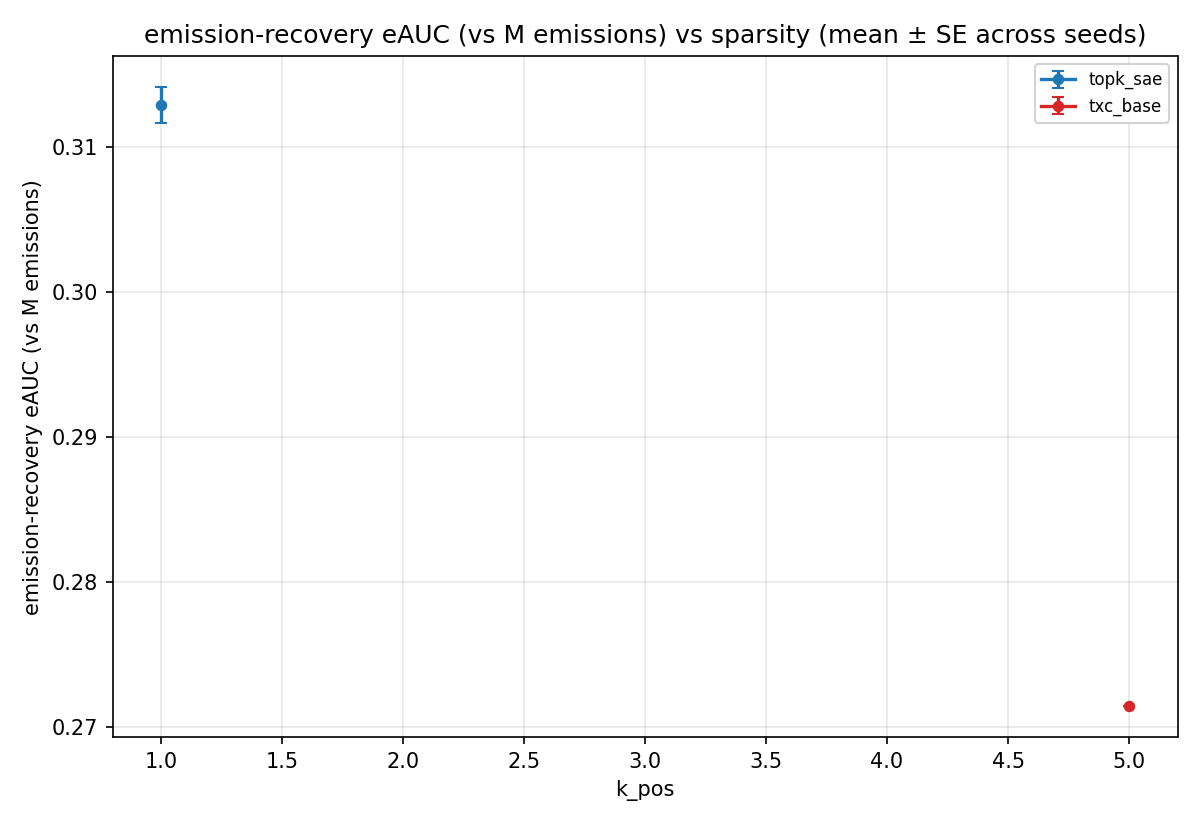
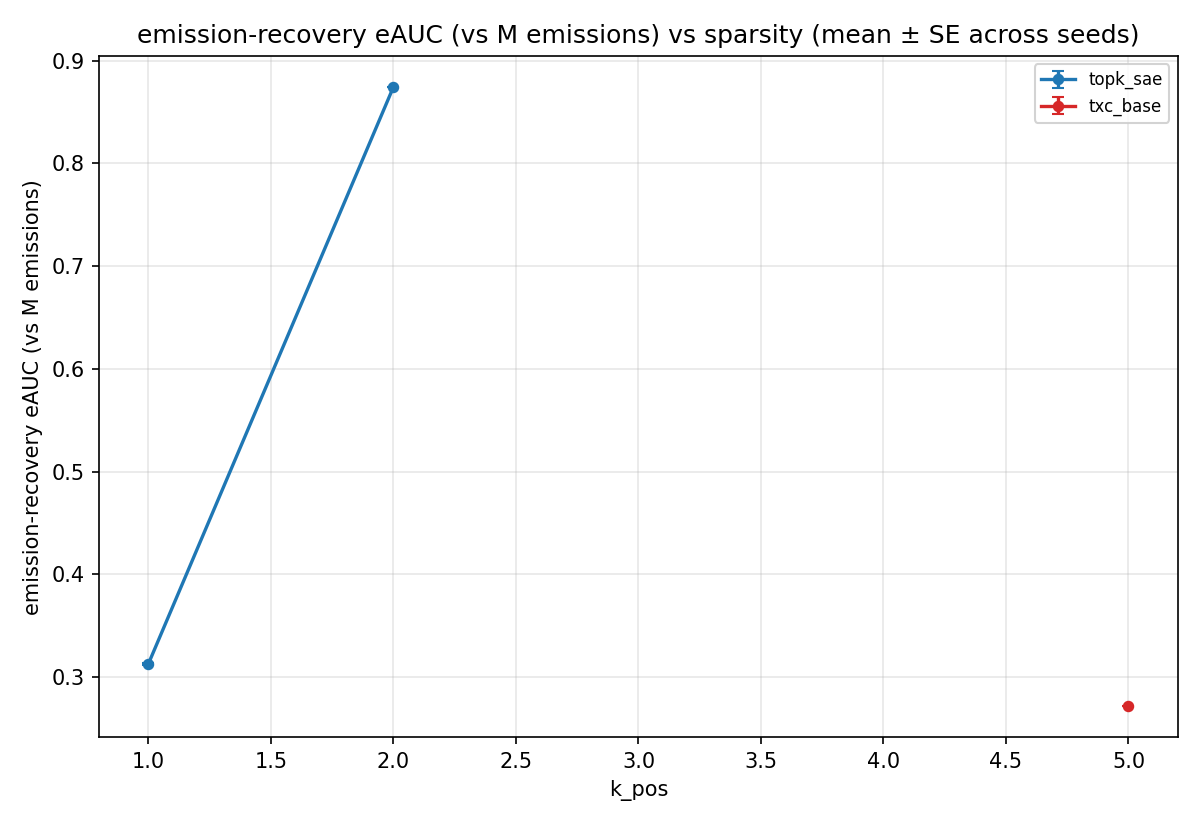
c1+c2 paper auto: refresh synthetic bundles (c1=, c2= leaderboard rows)
Auto-generated by purified/scripts/synthetic_paper_renderer.py.
Inputs: results/leaderboard.jsonl filtered to component in (c1,c2)
with eval_cfg._full_suite=true (the c{1,2}_synthetic_*_full driver flag).

diff --git a/purified/docs/components/c2_paper_results.md b/purified/docs/components/c2_paper_results.md
@@ -1,6 +1,6 @@
 # C2 Synthetic Coupled — paper-ready results (auto-generated)
 
-_Last refreshed: 2026-05-06T04:10:05+00:00_
+_Last refreshed: 2026-05-06T04:25:08+00:00_
 
 ## Setup
 
@@ -10,13 +10,13 @@ _Last refreshed: 2026-05-06T04:10:05+00:00_
 - Companion: eAUC — recovery of the M=20 emission directions.
 - Driver: `experiments/c2_synthetic_coupled_full/run.py` (isolated `act_cache_key` via `temp_bench.data.toy_full.api:coupled_hmm`).
 
-Currently 4 cells across 2 (arch, T) configurations; seeds-per-cell range = [1, 3].
+Currently 5 cells across 2 (arch, T) configurations; seeds-per-cell range = [1].
 
 ## gAUC headline (peak gAUC over k_pos)
 
 | arch | T | k\* | gAUC (mean ± SE) | n seeds |
 |------|---|----|---------------------------|---------|
-| `topk_sae` | — | 1 | 0.446 ± 0.017 | 3 |
+| `topk_sae` | — | 2 | 0.990 ± 0.000 | 1 |
 | `txc_base` | — | 5 | 0.320 ± 0.000 | 1 |
 
 ![c2_gauc_vs_k](c2_paper_assets/c2_gauc_vs_k.png)
@@ -25,21 +25,21 @@ Currently 4 cells across 2 (arch, T) configurations; seeds-per-cell range = [1, 
 
 | arch | T | k\* | eAUC (mean ± SE) | n seeds |
 |------|---|----|---------------------------|---------|
-| `topk_sae` | — | 1 | 0.313 ± 0.001 | 3 |
+| `topk_sae` | — | 2 | 0.874 ± 0.000 | 1 |
 | `txc_base` | — | 5 | 0.271 ± 0.000 | 1 |
 
 ![c2_eauc_vs_k](c2_paper_assets/c2_eauc_vs_k.png)
 
 ## Per-cell mean — gAUC
 
-| arch (T) | k=1 | k=5 |
-|---|---|---|
-| `topk_sae` | 0.446 | — |
-| `txc_base` | — | 0.320 |
+| arch (T) | k=1 | k=2 | k=5 |
+|---|---|---|---|
+| `topk_sae` | 0.446 | 0.990 | — |
+| `txc_base` | — | — | 0.320 |
 
 ## Per-cell mean — eAUC
 
-| arch (T) | k=1 | k=5 |
-|---|---|---|
-| `topk_sae` | 0.313 | — |
-| `txc_base` | — | 0.271 |
+| arch (T) | k=1 | k=2 | k=5 |
+|---|---|---|---|
+| `topk_sae` | 0.313 | 0.874 | — |
+| `txc_base` | — | — | 0.271 |

diff --git a/purified/docs/components/c1_paper_results.md b/purified/docs/components/c1_paper_results.md
@@ -1,6 +1,6 @@
 # C1 Synthetic TopK — paper-ready results (auto-generated)
 
-_Last refreshed: 2026-05-06T04:10:05+00:00_
+_Last refreshed: 2026-05-06T04:25:08+00:00_
 
 ## Setup
 
